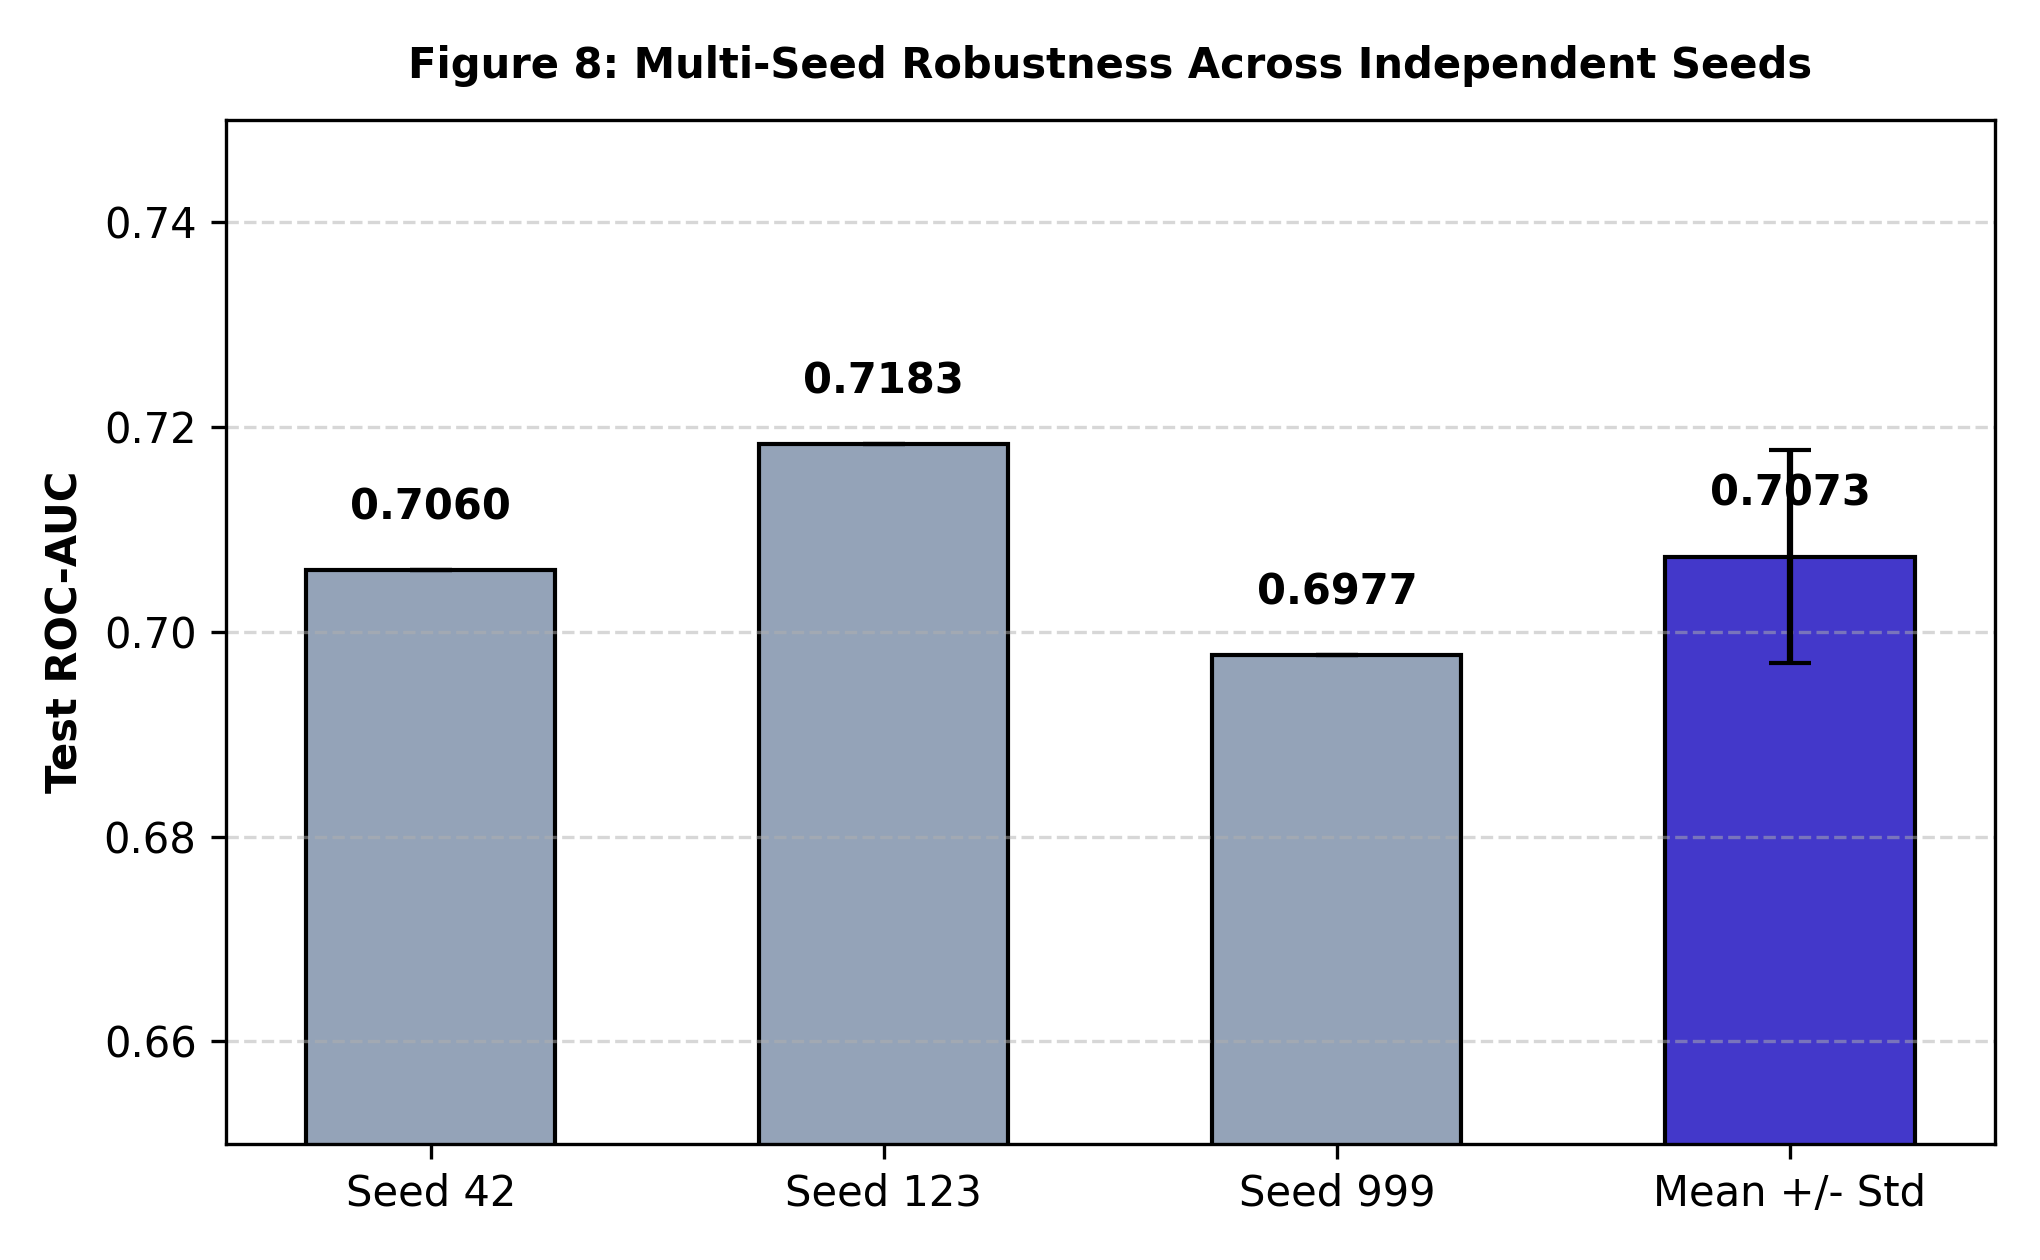
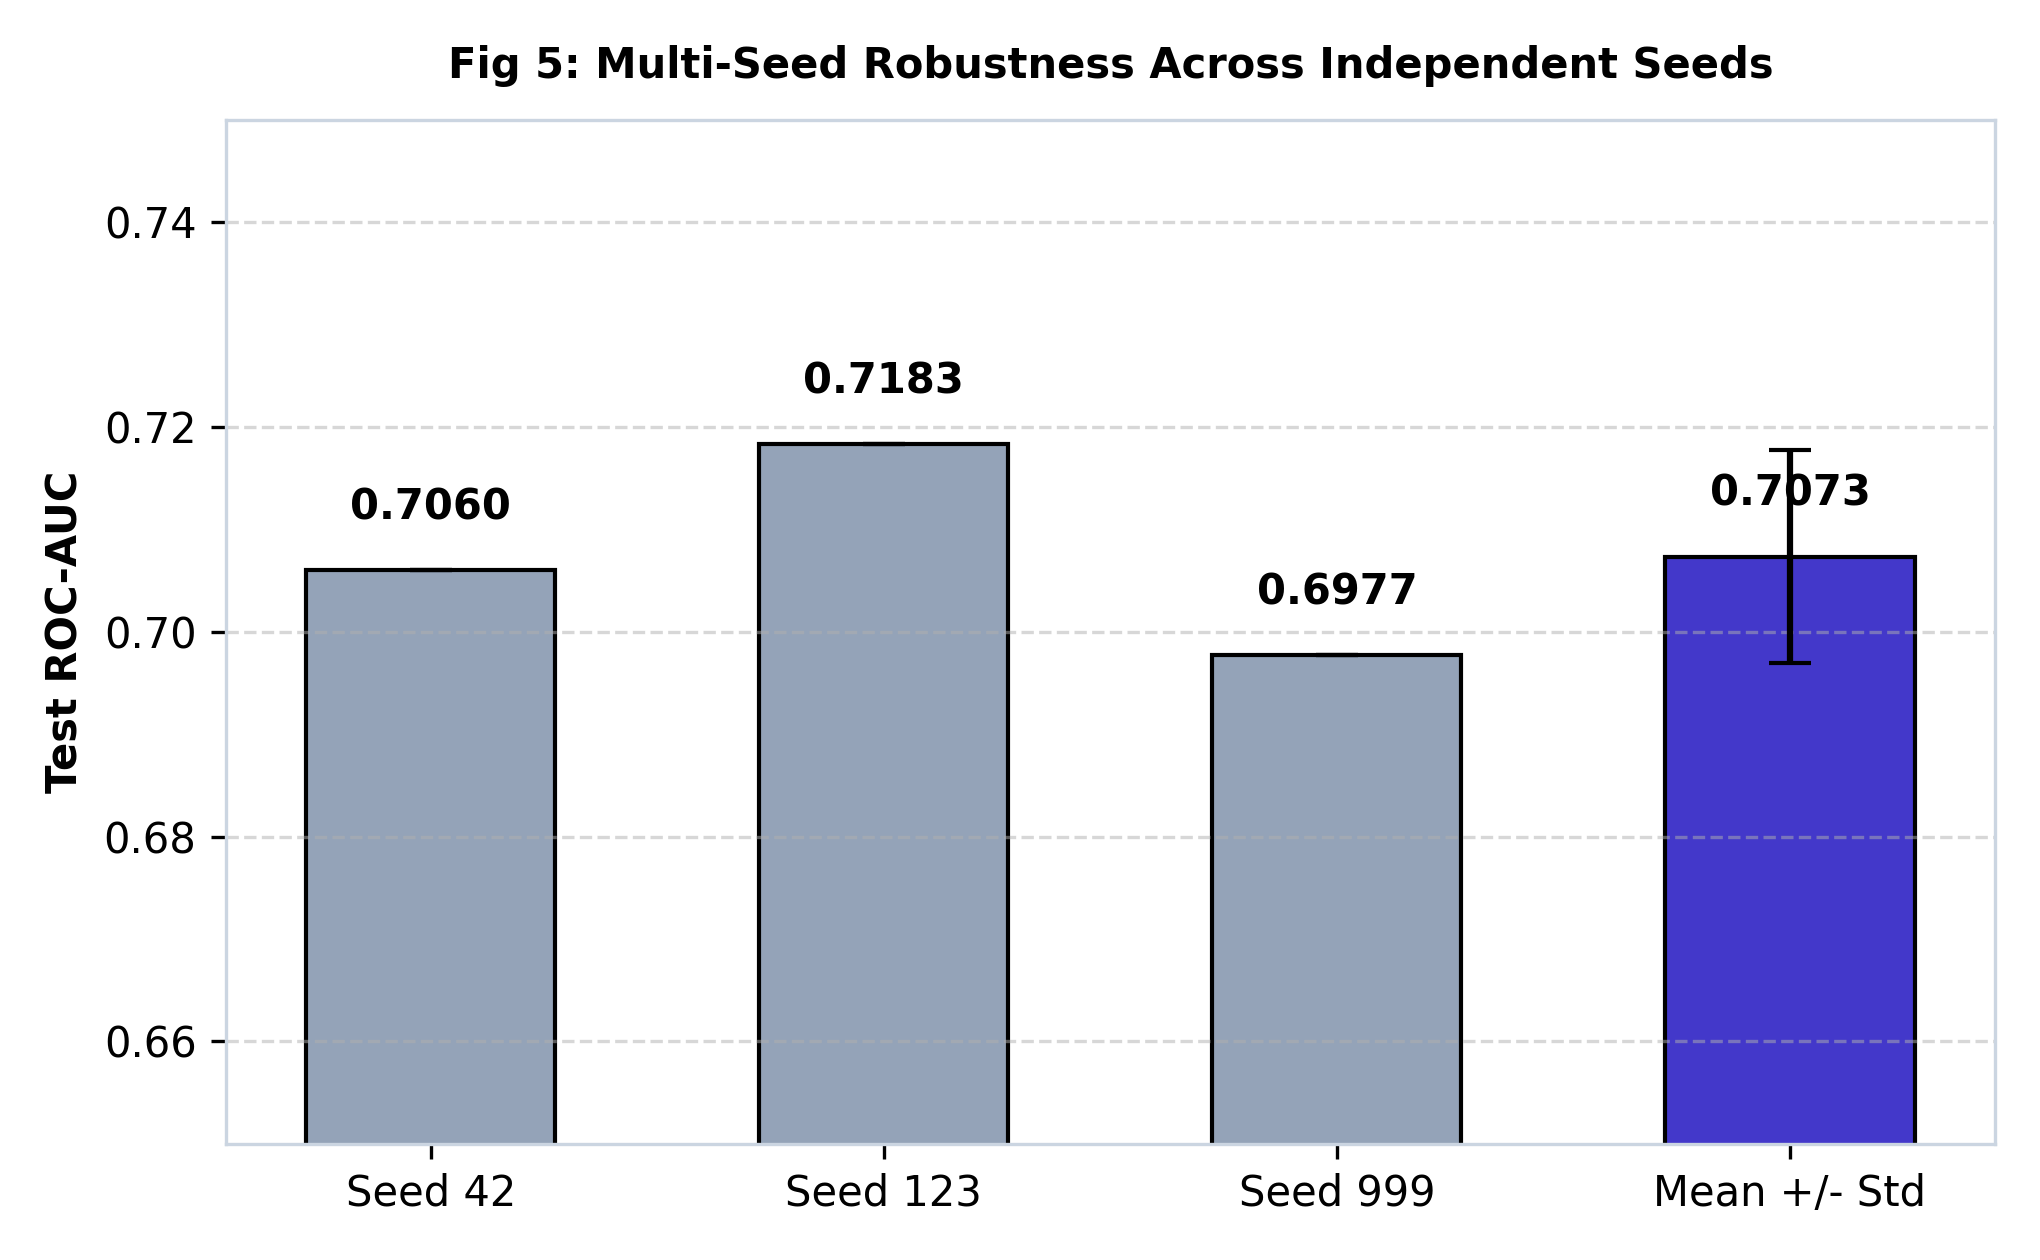
fix(figures): update Fig 5 embedded image title from Figure 8 to Fig 5 to match filename

Changed region(s): [[0.0926, 0.0929, 0.9882, 0.1238], [0.1235, 0.8976, 0.9882, 0.9286], [0.1853, 0.031, 0.8956, 0.0619]]

diff --git a/scripts/generate_matching_paper_figures.py b/scripts/generate_matching_paper_figures.py
@@ -151,4 +151,41 @@ fig4.savefig(paper_dir / "Fig4_Sensitivity.png", dpi=300)
 fig4.savefig(paper_dir / "Fig4_Sensitivity.pdf")
 plt.close(fig4)
 
+# -------------------------------------------------------------------------
+# Fig 5: Multi-Seed Robustness Plot
+# File name: Fig5_MultiSeed_Robustness.pdf / .png
+# Title inside image: "Fig 5: Multi-Seed Robustness Across Independent Seeds"
+# -------------------------------------------------------------------------
+print("Generating Fig 5...")
+table7_path = proj / "reports" / "tables" / "table7_multi_seed_robustness.csv"
+df7 = pd.read_csv(table7_path)
+
+seeds = ["Seed 42", "Seed 123", "Seed 999", "Mean +/- Std"]
+s42 = float(df7[df7["Seed"] == "42"]["ROC_AUC"].values[0])
+s123 = float(df7[df7["Seed"] == "123"]["ROC_AUC"].values[0])
+s999 = float(df7[df7["Seed"] == "999"]["ROC_AUC"].values[0])
+
+mean_str = df7[df7["Seed"] == "Mean +/- Std"]["ROC_AUC"].values[0]
+mean_val = float(mean_str.split("+/-")[0].strip())
+std_val = float(mean_str.split("+/-")[1].strip())
+
+auc_vals = [s42, s123, s999, mean_val]
+auc_errs = [0, 0, 0, std_val]
+colors = ["#94a3b8", "#94a3b8", "#94a3b8", "#4338ca"]
+
+fig5, ax5 = plt.subplots(figsize=(6.8, 4.2), dpi=300)
+ax5.bar(seeds, auc_vals, yerr=auc_errs, capsize=5, color=colors, edgecolor="black", width=0.55)
+ax5.set_ylim(0.65, 0.75)
+ax5.set_ylabel("Test ROC-AUC", fontweight="bold")
+ax5.set_title("Fig 5: Multi-Seed Robustness Across Independent Seeds", fontweight="bold", fontsize=10, pad=10)
+
+for i, v in enumerate(auc_vals):
+    ax5.text(i, v + 0.005, f"{v:.4f}", ha="center", fontweight="bold")
+ax5.grid(axis="y", linestyle="--", alpha=0.5)
+fig5.tight_layout()
+
+fig5.savefig(paper_dir / "Fig5_MultiSeed_Robustness.png", dpi=300)
+fig5.savefig(paper_dir / "Fig5_MultiSeed_Robustness.pdf")
+plt.close(fig5)
+
 print("All figures in paper_final_figures regenerated successfully with matching figure numbers.")
